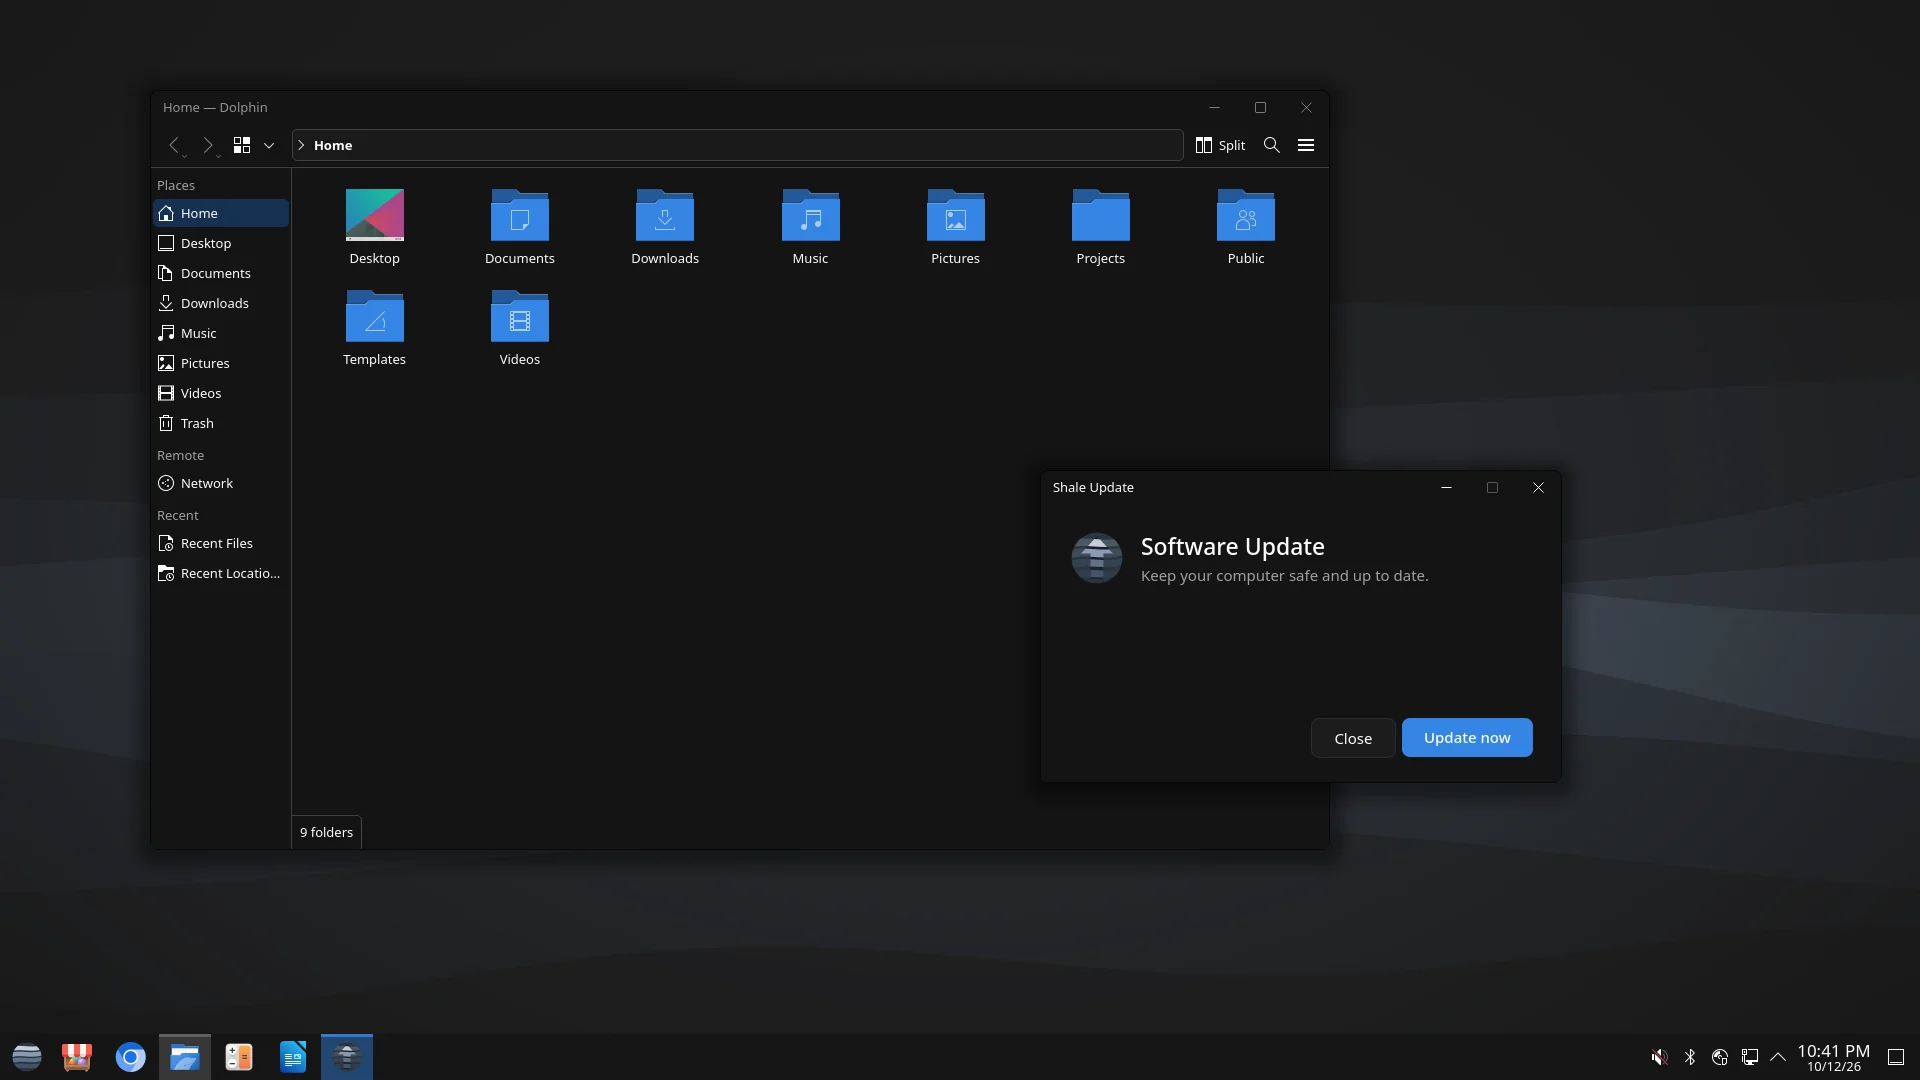
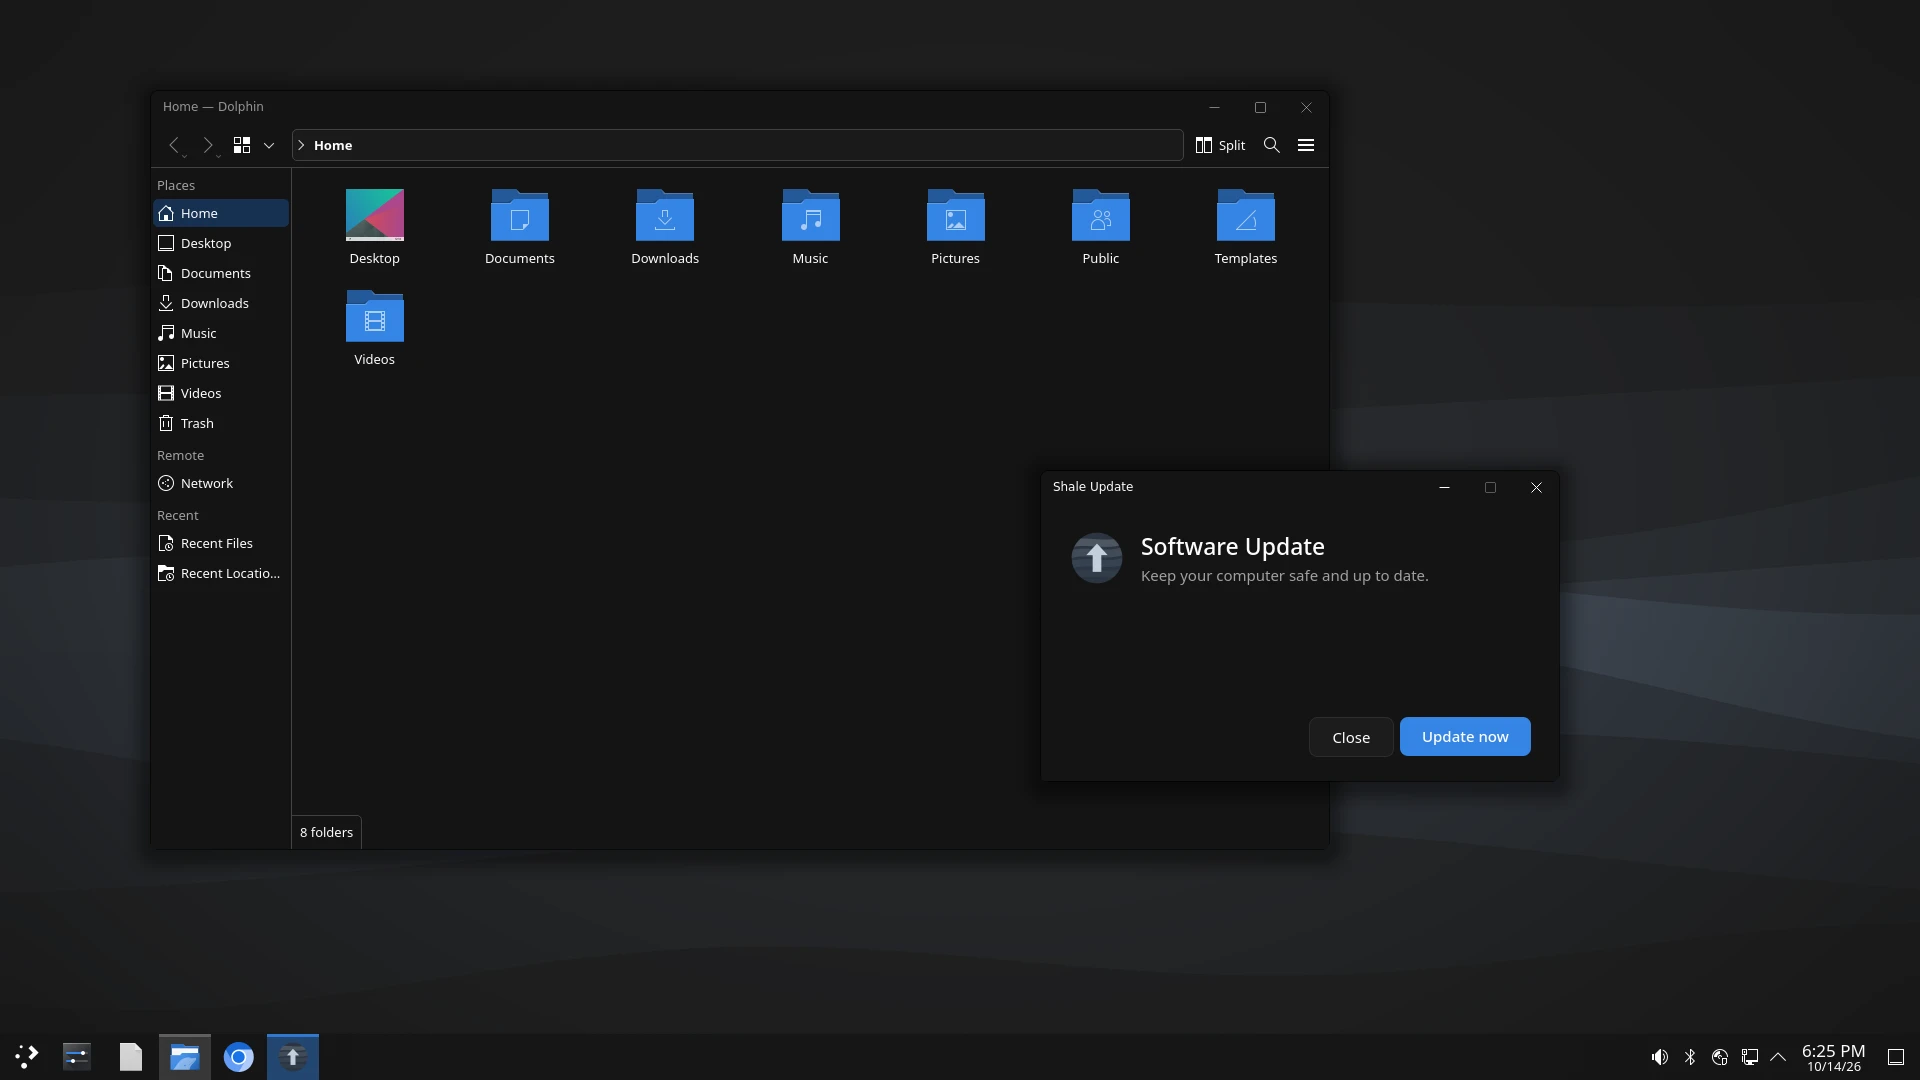
Website: Software Manager instead of Bazaar, new screenshots; smaller update arrow
- New desktop screenshots in all three themes, from a fresh Shale
  desktop (the Software Manager pinned where Bazaar was, the new
  Software Update icon), plus new shots of the Software Manager and
  Software Update. The Bazaar screenshot is gone and the text points at
  the Software Manager.
- Software Update's arrow is smaller, with room around it in the circle.
- software: sharp images on HiDPI, centred screenshot viewer, unverified
  Flatpaks shown by default, smaller icon.

diff --git a/website/index.html b/website/index.html
@@ -253,7 +253,7 @@ footer .brand { color: var(--ink); }
       <div class="traits">
         <div class="task">
           <svg class="trait-ico" viewBox="0 0 24 24" fill="none" stroke="currentColor" stroke-width="1.8" stroke-linecap="round" stroke-linejoin="round" aria-hidden="true"><rect x="4" y="4" width="16" height="16" rx="3"/><path d="M9 12h6"/></svg>
-          <h3>Minimal</h3><p>A handful of good apps, no trial software, no clutter. Add anything else from Bazaar when you want it.</p>
+          <h3>Minimal</h3><p>A handful of good apps, no trial software, no clutter. Add anything else from the Software Manager when you want it.</p>
         </div>
         <div class="task">
           <svg class="trait-ico" viewBox="0 0 24 24" fill="none" stroke="currentColor" stroke-width="1.8" stroke-linecap="round" stroke-linejoin="round" aria-hidden="true"><path d="M4 7h16M4 12h10M4 17h6"/></svg>
@@ -276,12 +276,12 @@ footer .brand { color: var(--ink); }
       <div class="stack">
         <p class="kicker">The app store</p>
         <h2>Thousands of free apps, one click away</h2>
-        <p class="lede">Shale comes with Bazaar, an app store full of free software. Find what you need, click Install, and it shows up in your menu. No websites to search and no installers to click through.</p>
-        <p class="lede">Games too: get Steam from Bazaar and play your library.</p>
+        <p class="lede">Shale comes with the Software Manager, an app store full of free software from Flathub and Arch Linux. Find what you need, click Install, and it shows up in your menu. No websites to search and no installers to click through.</p>
+        <p class="lede">Games too: get Steam from the Software Manager and play your library.</p>
       </div>
       <div>
-        <img class="shot" src="bazaar.png" width="1600" height="1197" alt="The Bazaar app store in Shale, showing popular apps like Firefox, Discord, Spotify, Steam and OBS Studio">
-        <p class="caption">Bazaar, the app store that comes with Shale.</p>
+        <img class="shot" src="software-manager.png" width="875" height="646" alt="The Software Manager in Shale, with FileZilla featured and apps like Blender, OBS Studio, Bitwarden, Audacity and Telegram">
+        <p class="caption">The Software Manager, the app store that comes with Shale.</p>
       </div>
     </div>
   </section>
@@ -332,7 +332,7 @@ footer .brand { color: var(--ink); }
           <p class="lede">A restore point is saved first, and you restart whenever it suits you.</p>
         </div>
       </div>
-      <figure class="solo"><img class="shot" src="update-done.png" width="1100" height="702" alt="Software Update saying Your computer is up to date, with a Done button"><figcaption class="caption">One click, and you're up to date.</figcaption></figure>
+      <figure class="solo"><img class="shot" src="update.png" width="576" height="336" alt="Software Update saying Keep your computer safe and up to date, with an Update now button"><figcaption class="caption">One click, and you're up to date.</figcaption></figure>
     </div>
   </section>
 
@@ -380,7 +380,7 @@ footer .brand { color: var(--ink); }
         <details open><summary>What is Linux?</summary><p>Linux is free software that runs your computer, the same job Windows or macOS does. It powers most of the internet and every Android phone. Shale is one version of it, set up to be easy and calm for everyday use.</p></details>
         <details><summary>Is it really free?</summary><p>Yes. Shale is free to download, free to use and free to share. There are no subscriptions, no ads and no account to sign up for.</p></details>
         <details><summary>Do I need to type commands?</summary><p>No. Installing, updating and adding apps all work with normal buttons and windows.</p></details>
-        <details><summary>Will my Windows programs work?</summary><p>Most popular things have a free equivalent in Bazaar, and many Windows games run through Steam. Some Windows-only programs, like certain Adobe apps or games with strict anti-cheat, don't work. If you rely on one of those, check before you switch.</p></details>
+        <details><summary>Will my Windows programs work?</summary><p>Most popular things have a free equivalent in the Software Manager, and many Windows games run through Steam. Some Windows-only programs, like certain Adobe apps or games with strict anti-cheat, don't work. If you rely on one of those, check before you switch.</p></details>
         <details><summary>Can I go back to Windows later?</summary><p>Yes, by installing Windows again from a Windows USB stick. Shale's snapshots undo problems within Shale, but they can't bring back a system that was replaced, so keep a backup of your files.</p></details>
         <details><summary>Will it work on my computer?</summary><p>Shale runs on most 64-bit PCs. AMD graphics work right away, and Intel and NVIDIA graphics are set up for you during install. The easiest way to check is to start from the USB stick and try it before installing.</p></details>
       </div>

diff --git a/tools/make-app-icons.py b/tools/make-app-icons.py
@@ -14,7 +14,7 @@ import re
 import sys
 
 from PySide6.QtCore import QPointF
-from PySide6.QtGui import QPainterPath, QPolygonF
+from PySide6.QtGui import QPainterPath, QPolygonF, QTransform
 
 BG = "#2b3440"
 SYMBOL = "#c3cfdc"  # the logo's lightest stripe
@@ -51,12 +51,22 @@ def circle(cx, cy, r):
     return path
 
 
+def shrink(path, factor=0.66):
+    """The symbol at a size that leaves room around it, centred in the disc."""
+    t = QTransform()
+    t.translate(CX, CY)
+    t.scale(factor, factor)
+    t.translate(-CX, -CY)
+    return t.map(path)
+
+
 def update_icon(stripes):
     # An upward arrow: head 72 wide, shaft 30 wide.
     arrow = QPainterPath()
     arrow.addPolygon(QPolygonF([QPointF(*p) for p in [
         (64, 14), (101, 54), (79, 54), (79, 112), (49, 112), (49, 54), (27, 54), (64, 14)]]))
     arrow.closeSubpath()
+    arrow = shrink(arrow)
     out = [f'<circle cx="{CX}" cy="{CY}" r="{R}" fill="{BG}"/>']
     # Faint strata behind a solid arrow in the logo's lightest colour.
     out += [svg_path(p, fill, ' fill-opacity="0.22"') for fill, p in stripes]
